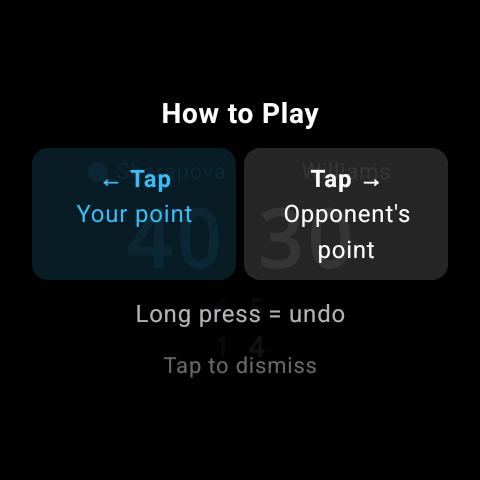
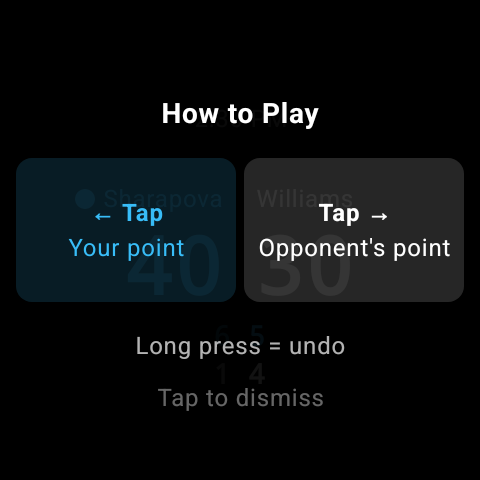
Handle long names

Changed region(s): [[0.0312, 0.2812, 0.9688, 0.7812], [0.3125, 0.8125, 0.6875, 0.875], [0.2188, 0.375, 0.25, 0.4062]]

diff --git a/wear/src/test/java/com/nuttyknot/tennisscoretracker/wear/screenshots/WearScoreScreenCircularScreenshotTest.kt b/wear/src/test/java/com/nuttyknot/tennisscoretracker/wear/screenshots/WearScoreScreenCircularScreenshotTest.kt
@@ -13,25 +13,25 @@ import com.nuttyknot.tennisscoretracker.wear.ui.WearTheme
 import org.junit.Rule
 import org.junit.Test
 
-// 2004 Wimbledon Women's Final: Sharapova d. S. Williams 6-1, 6-4
-class WearScoreScreenshotTest {
+// Circular variants for UX/internal testing on round watch displays
+class WearScoreScreenCircularScreenshotTest {
     companion object {
         // Galaxy Watch 7 (44mm): 480x480 px, ~327 PPI, round
-        private val GALAXY_WATCH_7 =
+        private val GALAXY_WATCH_7_ROUND =
             DeviceConfig(
                 screenWidth = 480,
                 screenHeight = 480,
                 density = Density.XHIGH,
                 ratio = ScreenRatio.NOTLONG,
                 size = ScreenSize.SMALL,
-                screenRound = ScreenRound.NOTROUND,
+                screenRound = ScreenRound.ROUND,
             )
     }
 
     @get:Rule
     val paparazzi =
         Paparazzi(
-            deviceConfig = GALAXY_WATCH_7,
+            deviceConfig = GALAXY_WATCH_7_ROUND,
             theme = "android:Theme.DeviceDefault",
             renderingMode = SessionParams.RenderingMode.NORMAL,
         )
@@ -54,7 +54,7 @@ class WearScoreScreenshotTest {
                 isMatchOver = true,
                 matchWinner = "Sharapova",
             )
-        paparazzi.snapshot("matchOver") {
+        paparazzi.snapshot("matchOverCircular") {
             WearTheme {
                 WearScoreScreen(
                     scoreDisplay = score,
@@ -85,7 +85,7 @@ class WearScoreScreenshotTest {
                 setHistory = listOf(6 to 1),
                 isUserServing = true,
             )
-        paparazzi.snapshot("watch") {
+        paparazzi.snapshot("watchCircular") {
             WearTheme {
                 WearScoreScreen(
                     scoreDisplay = score,
@@ -116,7 +116,7 @@ class WearScoreScreenshotTest {
                 setHistory = listOf(6 to 1),
                 isUserServing = false,
             )
-        paparazzi.snapshot("watchOpponentServing") {
+        paparazzi.snapshot("watchOpponentServingCircular") {
             WearTheme {
                 WearScoreScreen(
                     scoreDisplay = score,
@@ -147,7 +147,7 @@ class WearScoreScreenshotTest {
                 setHistory = listOf(6 to 1),
                 isUserServing = true,
             )
-        paparazzi.snapshot("watchLongNames") {
+        paparazzi.snapshot("watchLongNamesCircular") {
             WearTheme {
                 WearScoreScreen(
                     scoreDisplay = score,
@@ -178,7 +178,7 @@ class WearScoreScreenshotTest {
                 setHistory = listOf(6 to 1),
                 isUserServing = false,
             )
-        paparazzi.snapshot("watchLongNamesOpponentServing") {
+        paparazzi.snapshot("watchLongNamesOpponentServingCircular") {
             WearTheme {
                 WearScoreScreen(
                     scoreDisplay = score,

diff --git a/wear/src/test/java/com/nuttyknot/tennisscoretracker/wear/screenshots/WearHelpScreenCircularScreenshotTest.kt b/wear/src/test/java/com/nuttyknot/tennisscoretracker/wear/screenshots/WearHelpScreenCircularScreenshotTest.kt
@@ -1,0 +1,69 @@
+package com.nuttyknot.tennisscoretracker.wear.screenshots
+
+import app.cash.paparazzi.DeviceConfig
+import app.cash.paparazzi.Paparazzi
+import com.android.ide.common.rendering.api.SessionParams
+import com.android.resources.Density
+import com.android.resources.ScreenRatio
+import com.android.resources.ScreenRound
+import com.android.resources.ScreenSize
+import com.nuttyknot.tennisscoretracker.shared.WearScoreDisplay
+import com.nuttyknot.tennisscoretracker.wear.ui.WearScoreScreen
+import com.nuttyknot.tennisscoretracker.wear.ui.WearTheme
+import org.junit.Rule
+import org.junit.Test
+
+// Circular variant for UX/internal testing on round watch displays
+class WearHelpScreenCircularScreenshotTest {
+    companion object {
+        // Galaxy Watch 7 (44mm): 480x480 px, ~327 PPI, round
+        private val GALAXY_WATCH_7_ROUND =
+            DeviceConfig(
+                screenWidth = 480,
+                screenHeight = 480,
+                density = Density.XHIGH,
+                ratio = ScreenRatio.NOTLONG,
+                size = ScreenSize.SMALL,
+                screenRound = ScreenRound.ROUND,
+            )
+    }
+
+    @get:Rule
+    val paparazzi =
+        Paparazzi(
+            deviceConfig = GALAXY_WATCH_7_ROUND,
+            theme = "android:Theme.DeviceDefault",
+            renderingMode = SessionParams.RenderingMode.NORMAL,
+        )
+
+    @Test
+    fun help() {
+        val score =
+            WearScoreDisplay(
+                userName = "Sharapova",
+                opponentName = "Williams",
+                userScore = "40",
+                opponentScore = "30",
+                userGames = 5,
+                opponentGames = 4,
+                userSets = 1,
+                opponentSets = 0,
+                setHistory = listOf(6 to 1),
+                isUserServing = true,
+            )
+        paparazzi.snapshot("helpCircular") {
+            WearTheme {
+                WearScoreScreen(
+                    scoreDisplay = score,
+                    isConnected = true,
+                    showHelp = true,
+                    currentTime = "2:30 PM",
+                    onNewMatch = {},
+                    onUserScored = {},
+                    onOpponentScored = {},
+                    onUndo = {},
+                )
+            }
+        }
+    }
+}

diff --git a/wear/src/main/java/com/nuttyknot/tennisscoretracker/wear/ui/WearScoreScreen.kt b/wear/src/main/java/com/nuttyknot/tennisscoretracker/wear/ui/WearScoreScreen.kt
@@ -30,6 +30,7 @@ import androidx.compose.ui.platform.LocalView
 import androidx.compose.ui.text.font.FontFamily
 import androidx.compose.ui.text.font.FontWeight
 import androidx.compose.ui.text.style.TextAlign
+import androidx.compose.ui.text.style.TextOverflow
 import androidx.compose.ui.unit.dp
 import androidx.wear.compose.material3.Text
 import com.nuttyknot.tennisscoretracker.shared.WearScoreDisplay
@@ -476,6 +477,8 @@ private fun RowScope.PlayerLabel(
             fontSize = LABEL_FONT_SIZE,
             color = color,
             maxLines = 1,
+            overflow = TextOverflow.Ellipsis,
+            modifier = Modifier.weight(1f, fill = false),
         )
         if (dotOnRight) dot()
     }
